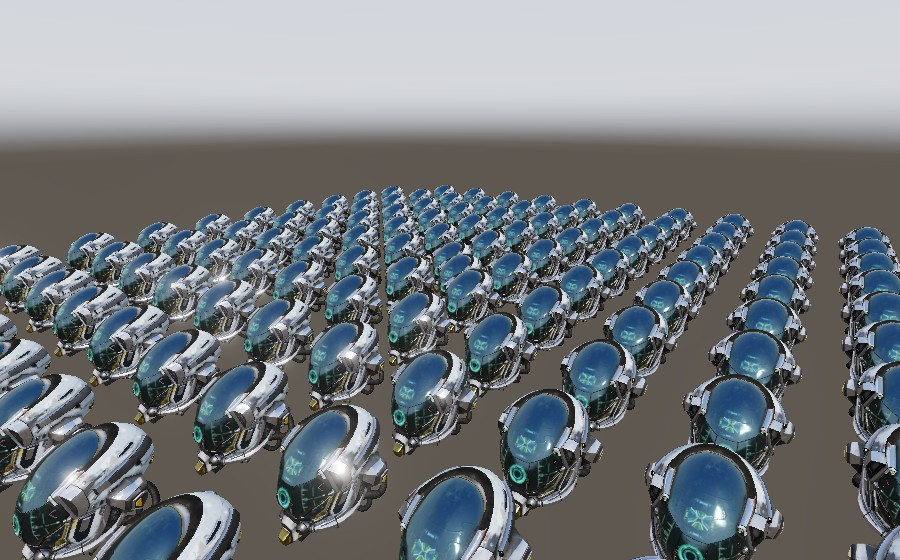
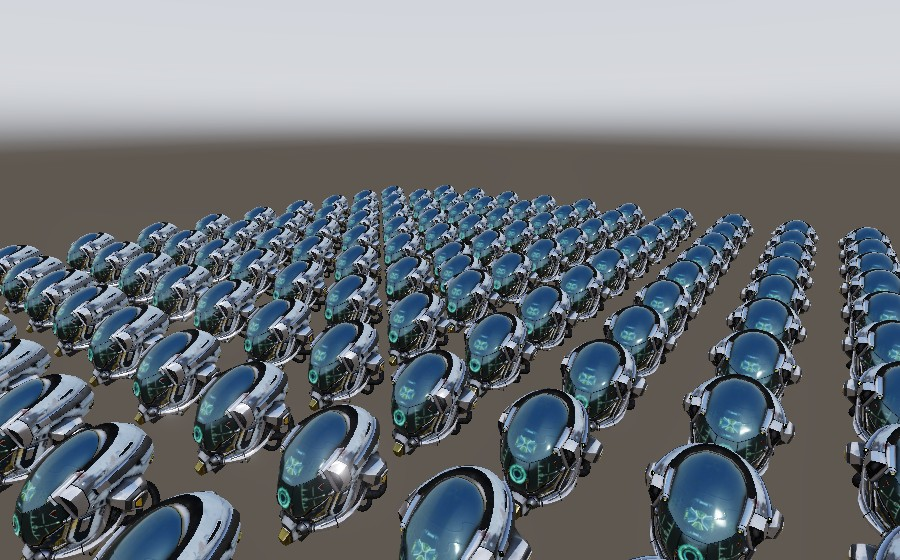
README images from the current engine, and two new cells
Sponza's hero was lit by a bug: before 0.10.0 the upper walls cast no
shadow, so the sun reached a nave it cannot. Re-shot with a sun that does.
The transparency cell predates the cluster depth-slice fix; instancing is
re-shot for consistency. New cells: the Fox cross-fading Walk to Run and
back, and a cutout lattice and a glass pane under a moving sun. Fox credited.

diff --git a/README.md b/README.md
@@ -33,6 +33,14 @@ an honest list rather than a short one.
 <td><b>Clustered lighting.</b> 576 point lights. The view frustum is diced into froxels, so a fragment only ever evaluates the handful whose radius reaches its cell.</td>
 <td><b>GPU-driven batching.</b> 121 helmets in <b>two</b> draw calls. A compute pass culls them and writes the instance counts; the CPU never learns which survived.</td>
 </tr>
+<tr>
+<td><img src="docs/images/fox.png" alt="A skinned fox cross-fading from a walk to a run and back"></td>
+<td><img src="docs/images/alpha-shadows.png" alt="A cutout lattice and a glass pane casting shadows under a moving sun"></td>
+</tr>
+<tr>
+<td><b>Skinning and cross-fades.</b> A walk blends into a run and back with <code>play('Run', { fade: 0.5 })</code>. Rotations blend the short way round, and one vertex shader skins and morphs.</td>
+<td><b>Alpha-shaped shadows.</b> A cutout casts the shape of its texture, holes and all; a half-transparent pane casts a shadow half as dark. Opaque casters keep the depth-only path.</td>
+</tr>
 </table>
 
 <sub><b>Models.</b>
@@ -40,9 +48,13 @@ an honest list rather than a short one.
 Helmet</a> by ctxwing and theblueturtle_, <a href="https://creativecommons.org/licenses/by/4.0/">CC BY
 4.0</a>. <a href="https://github.com/KhronosGroup/glTF-Sample-Assets/tree/main/Models/Sponza">Sponza</a>
 by Frank Meinl and Marko Dabrovic, with PBR textures by Alexandre Pestana, from the Khronos glTF
-Sample Assets — <a href="https://creativecommons.org/licenses/by/3.0/">CC BY 3.0</a>. Both are third
-party assets shown here to demonstrate the renderer; neither is part of it, and neither is
-redistributed in this repository.</sub>
+Sample Assets — <a href="https://creativecommons.org/licenses/by/3.0/">CC BY 3.0</a>.
+<a href="https://github.com/KhronosGroup/glTF-Sample-Assets/tree/main/Models/Fox">Fox</a> modelled by
+PixelMannen (<a href="https://creativecommons.org/publicdomain/zero/1.0/">CC0</a>), rigged and animated
+by tomkranis, converted to glTF by @AsoboStudio and @scurest
+(<a href="https://creativecommons.org/licenses/by/4.0/">CC BY 4.0</a>). All three are third party
+assets shown here to demonstrate the renderer; none is part of it, and none is redistributed in
+this repository.</sub>
 
 ```js
 import { Winding, Camera, OrbitController } from 'winding-engine';
